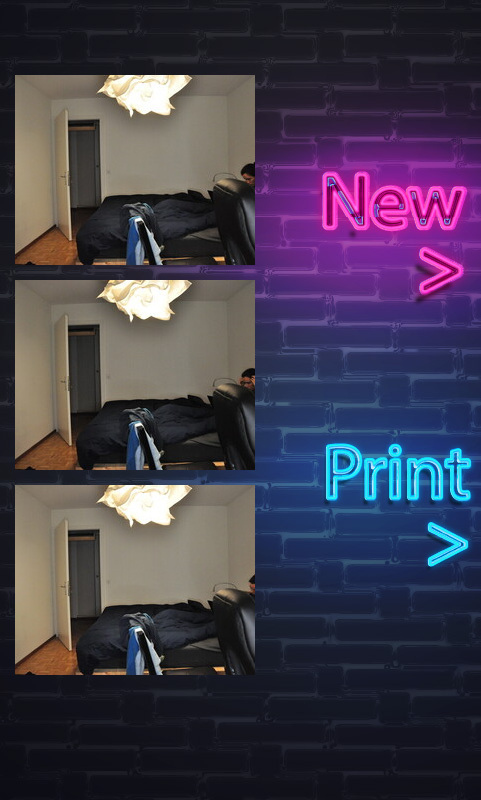
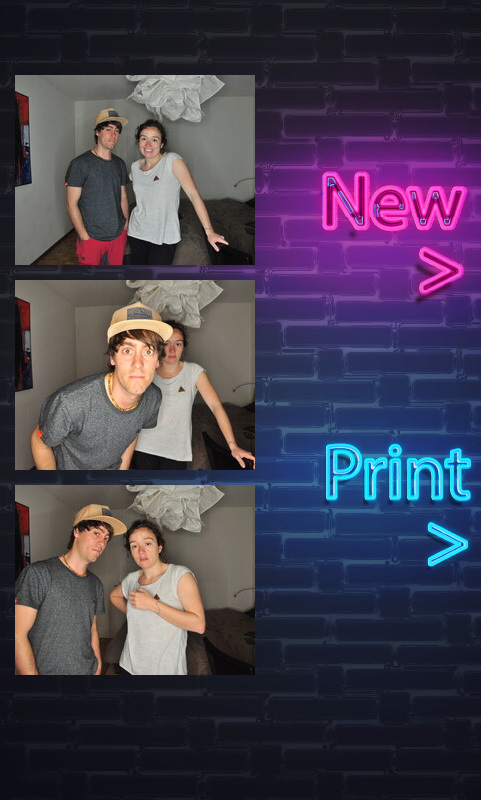
last version photobooth

Changed region(s): [[0.0312, 0.0938, 0.5301, 0.8438]]

diff --git a/run_testbutton.py b/run_testbutton.py
@@ -5,7 +5,7 @@ import neopixel
 import time
 import subprocess
 import os
-from src.utils.display_images import display_photo, display_smile, display_loading, display_start, display_empty
+from src.utils.display_images import display_photo, display_smile, display_loading, display_start, display_empty, display_int_photo
 from src.utils.neopixel import leds_purple_loading,upper_button_purple,leds_blue_charger, make_led_flash, turn_leds_off, leds_smooth_charger, leds_blue_charger_smooth
 from src.utils.neopixel import leds_purple_charger, lower_button_blue
 from src.utils.photos import kill_gphoto2_at_start, remove_temp_photos_at_start, kill_feh, remove_final_ifany
@@ -35,38 +35,29 @@ while True: # Run forever
         time_now = time.strftime("%d-%H:%M:%S:")
         number_of_photos_in_folder = 0 
         number_of_photos_in_folder_old = 0
-        tries = 0
-        flag_photo_to_show = False
         while number_of_photos_in_folder < 3:
             name_photo = "photo"+ str(number_of_photos_in_folder)
-            if tries ==0:
-                display_smile()
-            elif flag_photo_to_show == True:
-                display_smile() # change this to display smile with photo collated
-                flag_photo_to_show = False 
-            elif flag_photo_to_show == False and tries>0:
-                display_smile()  # maybe this could display a text saying 'you are too close, step back'
-
+            display_smile()
             leds_blue_charger(pixels) 
             print("CLICK!")
             make_led_flash(pixels)
             display_empty()
             subprocess.check_output("gphoto2  --capture-image-and-download --filename /home/pi/photobooth_images/"+name_photo+".jpg", 
                                                 stderr=subprocess.STDOUT, shell=True)
-            tries = tries + 1
             number_of_photos_in_folder = len(os.listdir('/home/pi/photobooth_images/'))
             print(number_of_photos_in_folder)
             turn_leds_off(pixels) 
             if number_of_photos_in_folder>number_of_photos_in_folder_old:
-                flag_photo_to_show = True
+                display_int_photo(number_of_photos_in_folder)
                 number_of_photos_in_folder_old += 1
                 gpout = subprocess.check_output("scp  /home/pi/photobooth_images/"+name_photo+".jpg"+" " +"/home/pi/copies_full_res/"+time_now+name_photo+".jpg",  #save full res photo 
                                             stderr=subprocess.STDOUT, shell=True)
+            else:
+                display_empty() # could be changed to display you are too close message
 
         print("about to call make_collage script...")
         display_empty()
         subprocess.Popen("sudo bash /home/pi/RPi-photobooth/src/photo_montage_print.sh", shell=True)
-        #subprocess.Popen("sudo bash /home/pi/RPi-photobooth/src/photo_montage_screen.sh", shell=True)
         leds_purple_charger(pixels)
         gpout = display_photo()
         print("Erase photos to clean folder...")
@@ -88,7 +79,6 @@ while True: # Run forever
             turn_leds_off(pixels)
             upper_button_purple(pixels)
         else:
-
             print('no photo to print')
             kill_feh()
             display_start()

diff --git a/start_script.py b/start_script.py
@@ -6,7 +6,7 @@ import time
 import subprocess
 import os
 import signal
-from src.utils.display_images import display_photo, display_smile, display_loading, display_start, display_empty
+from src.utils.display_images import display_photo, display_smile, display_loading, display_start, display_empty, display_int_photo_bricks, display_int_photo_next_photo, display_outfocus, display_almostready
 from src.utils.display_images import handler
 from src.utils.neopixel import leds_purple_loading,upper_button_purple,leds_blue_charger, make_led_flash, turn_leds_off, leds_smooth_charger, leds_blue_charger_smooth
 from src.utils.neopixel import leds_purple_charger, lower_button_blue
@@ -41,7 +41,8 @@ while True: # Run forever
         number_of_photos_in_folder_old = 0
         while number_of_photos_in_folder < 3:
             name_photo = "photo"+ str(number_of_photos_in_folder)
-            display_smile()
+            if number_of_photos_in_folder ==0:
+                display_smile()
             leds_blue_charger_smooth(pixels) 
             print("CLICK!")
             make_led_flash(pixels)
@@ -52,12 +53,19 @@ while True: # Run forever
             number_of_photos_in_folder = len(os.listdir('/home/pi/photobooth_images/'))
             turn_leds_off(pixels) 
             if number_of_photos_in_folder>number_of_photos_in_folder_old:
+                if number_of_photos_in_folder==3:
+                    display_int_photo_bricks(number_of_photos_in_folder-1)
+                else:
+                    display_int_photo_next_photo(number_of_photos_in_folder-1)
                 number_of_photos_in_folder_old += 1
                 gpout = subprocess.check_output("scp  /home/pi/photobooth_images/"+name_photo+".jpg"+" " +"/home/pi/copies_full_res/"+time_now+name_photo+".jpg",  #save full res photo 
                                             stderr=subprocess.STDOUT, shell=True)
+            else:
+                display_outfocus() # could be changed to display you are too close message
+
 
         print("about to call make_collage script...")
-        display_empty()
+        display_almostready()
         subprocess.Popen("sudo bash /home/pi/RPi-photobooth/src/photo_montage_print.sh", shell=True)
         #subprocess.Popen("sudo bash /home/pi/RPi-photobooth/src/photo_montage_screen.sh", shell=True)
         leds_smooth_charger(pixels)

diff --git a/src/utils/display_images.py b/src/utils/display_images.py
@@ -29,6 +29,15 @@ def display_empty():
     subprocess.call("feh -F /home/pi/RPi-photobooth/images_wait/Empty_out.jpg &", shell=True)
 
 
+def display_almostready():
+    subprocess.call("sudo pkill feh", shell=True)
+    subprocess.call("feh -F /home/pi/RPi-photobooth/images_wait/photoalmostready_out.jpg &", shell=True)
+
+def display_outfocus():
+    subprocess.call("sudo pkill feh", shell=True)
+    subprocess.call("feh -F /home/pi/RPi-photobooth/images_wait/Moveback_out.jpg &", shell=True)
+    sleep(2)
+
 
 def remove_mouse():
     gpout = subprocess.check_output("unclutter -idle 0", 
@@ -39,3 +48,21 @@ def handler(signum, frame):
     print("Forever is over!")
     display_start()
     
+
+def display_int_photo_bricks(photo_number):
+    photo_number = str(photo_number)
+    print('here')
+    subprocess.call("sudo bash /home/pi/RPi-photobooth/src/photo_montage_temp.sh {}".format(photo_number), shell=True)
+    subprocess.call("sudo pkill feh", shell=True)
+    print('showing the new photo implemented')
+    subprocess.call("feh -F /home/pi/RPi-photobooth/images_wait/Empty_out_temp_display.jpg &", shell=True)
+    return 
+
+def display_int_photo_next_photo(photo_number):
+    photo_number = str(photo_number)
+    print('here')
+    subprocess.call("sudo bash /home/pi/RPi-photobooth/src/photo_montage_temp_getready.sh {}".format(photo_number), shell=True)
+    subprocess.call("sudo pkill feh", shell=True)
+    print('showing the new photo implemented')
+    subprocess.call("feh -F /home/pi/RPi-photobooth/images_wait/Nextphoto_out_temp_display.jpg &", shell=True)
+    return 

diff --git a/test_scripts/test_screen.py b/test_scripts/test_screen.py
@@ -9,9 +9,9 @@ import os
 
 os.environ['DISPLAY']=':0'
 
-gpout = subprocess.check_output("sudo convert -rotate '-90' /home/pi/RPi-photobooth/images_wait/StartHere_instructions.jpg /home/pi/RPi-photobooth/images_wait/StartHere_instructions_out.jpg", 
+gpout = subprocess.check_output("sudo convert -rotate '-90' /home/pi/RPi-photobooth/images_wait/photoalmostready.jpg /home/pi/RPi-photobooth/images_wait/photoalmostready_out.jpg", 
                                             stderr=subprocess.STDOUT, shell=True)
-subprocess.call("feh -F /home/pi/RPi-photobooth/images_wait/StartHere_instructions_out.jpg  &", shell=True)
+subprocess.call("feh -F /home/pi/RPi-photobooth/images_wait/photoalmostready_out.jpg  &", shell=True)
 #gpout = subprocess.check_output("unclutter -idle 0", 
 #                                            stderr=subprocess.STDOUT, shell=True)
 sleep(60)
